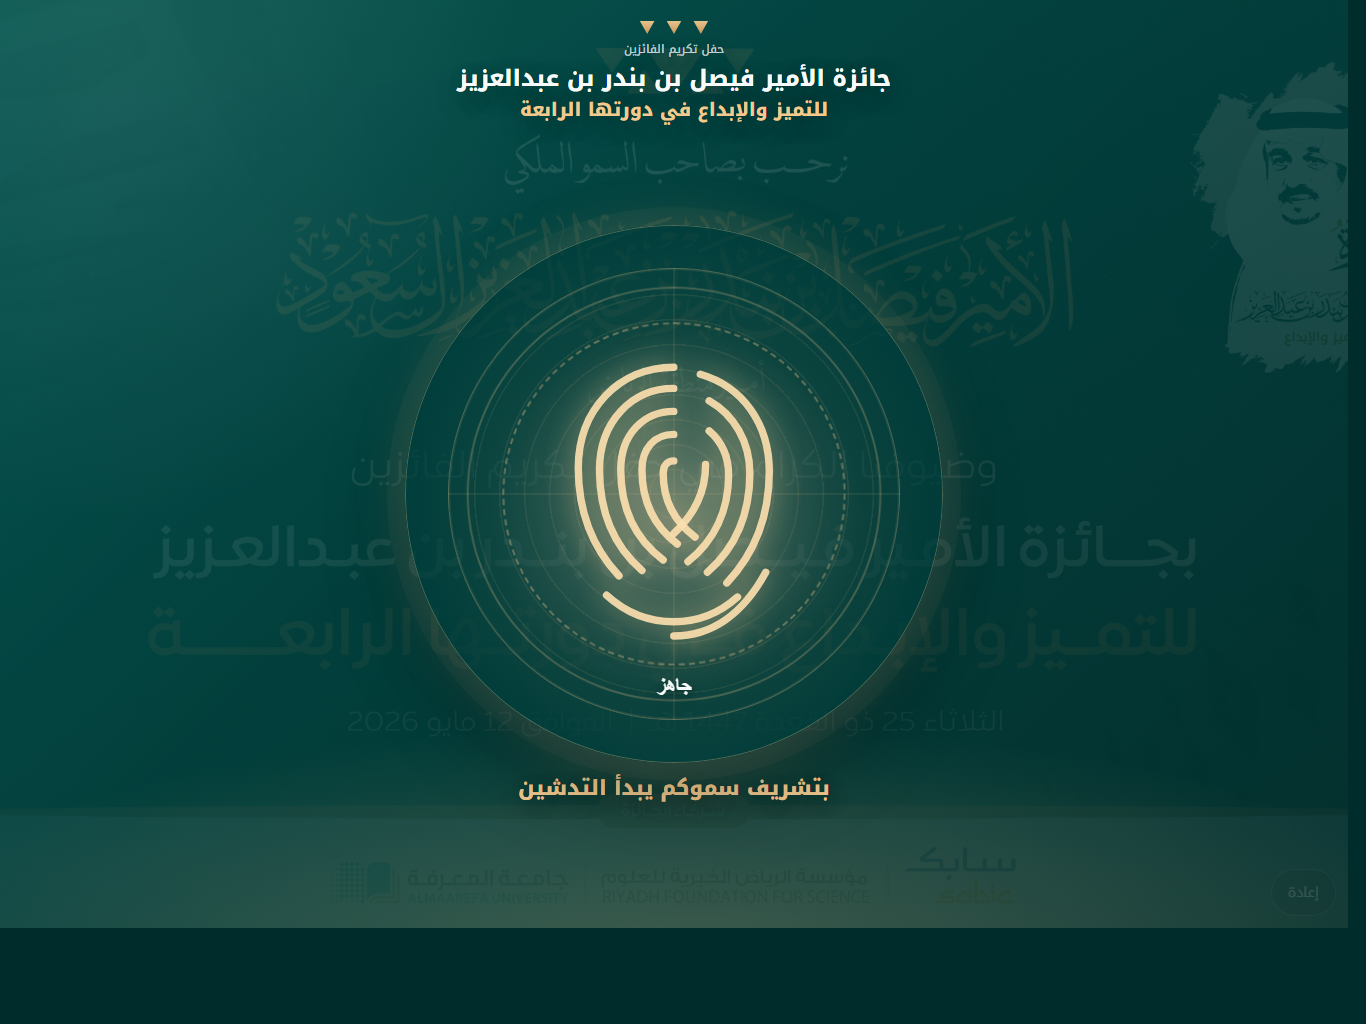
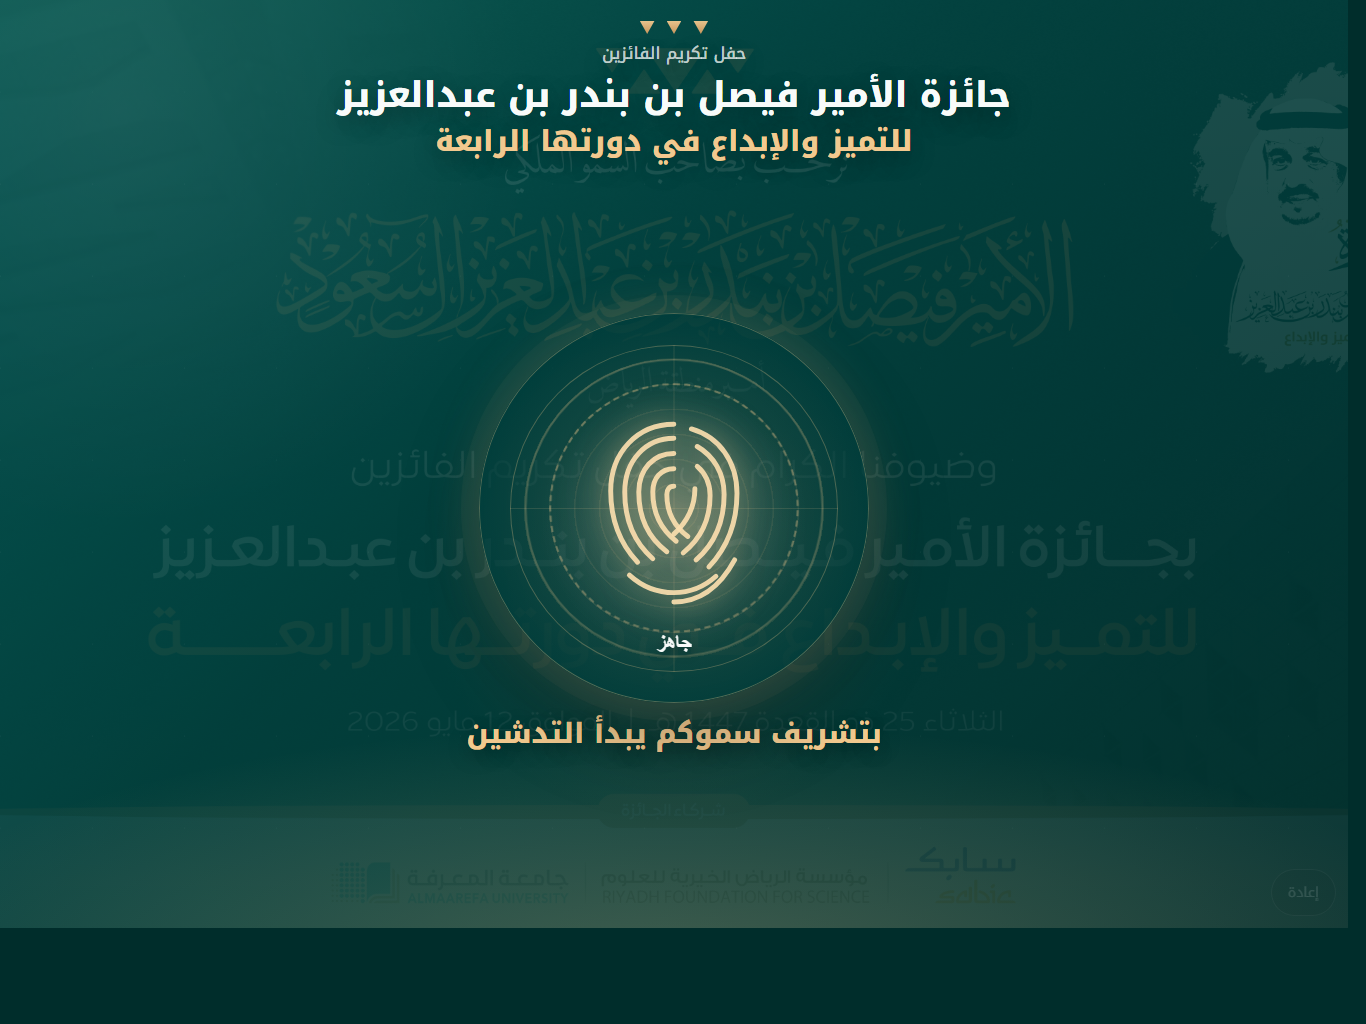
Increase text and reduce fingerprint size

diff --git a/styles.css b/styles.css
@@ -158,20 +158,20 @@ body {
 
 .brand p {
   color: var(--muted);
-  font-size: clamp(11px, 1.25dvh, 16px);
+  font-size: clamp(15px, 1.8dvh, 22px);
   font-weight: 500;
 }
 
 .brand h1 {
   color: var(--white);
-  font-size: clamp(18px, 2.45dvh, 34px);
+  font-size: clamp(25px, 3.8dvh, 52px);
   font-weight: 800;
   line-height: 1.28;
 }
 
 .brand h2 {
   color: var(--gold-light);
-  font-size: clamp(15px, 2dvh, 28px);
+  font-size: clamp(21px, 3.1dvh, 42px);
   font-weight: 800;
   line-height: 1.32;
 }
@@ -189,7 +189,7 @@ body {
 .status-line {
   min-height: 1.24em;
   color: var(--gold-light);
-  font-size: clamp(17px, 2.25dvh, 29px);
+  font-size: clamp(21px, 3dvh, 38px);
   font-weight: 800;
   line-height: 1.42;
   text-align: center;
@@ -198,7 +198,7 @@ body {
 
 .palm-pad {
   position: relative;
-  width: min(58dvh, 64vw, 560px);
+  width: min(42dvh, 48vw, 420px);
   aspect-ratio: 1 / 1;
   border: 0;
   border-radius: 50%;
@@ -270,7 +270,7 @@ body {
 .fingerprint-lines {
   position: absolute;
   z-index: 3;
-  width: 46%;
+  width: 42%;
   height: auto;
   transform: translateY(-1%) scaleX(-1);
   fill: none;
@@ -504,28 +504,28 @@ body {
   }
 
   .brand p {
-    font-size: clamp(10px, 1.1dvh, 14px);
+    font-size: clamp(14px, 1.65dvh, 20px);
   }
 
   .brand h1 {
-    max-width: 10.5em;
-    font-size: clamp(15px, 1.9dvh, 24px);
-    line-height: 1.3;
+    max-width: 9.8em;
+    font-size: clamp(24px, 3dvh, 37px);
+    line-height: 1.34;
   }
 
   .brand h2 {
-    max-width: 12em;
-    font-size: clamp(13px, 1.55dvh, 20px);
-    line-height: 1.28;
+    max-width: 11.5em;
+    font-size: clamp(20px, 2.45dvh, 31px);
+    line-height: 1.3;
   }
 
   .status-line {
-    font-size: clamp(16px, 1.95dvh, 24px);
+    font-size: clamp(20px, 2.45dvh, 30px);
     line-height: 1.35;
   }
 
   .palm-pad {
-    width: min(44dvh, 78vw, 560px);
+    width: min(32dvh, 62vw, 420px);
   }
 }
 
@@ -535,23 +535,23 @@ body {
   }
 
   .brand h1 {
-    font-size: clamp(17px, 2.35dvh, 27px);
+    font-size: clamp(24px, 3.55dvh, 40px);
   }
 
   .brand h2 {
-    font-size: clamp(14px, 1.95dvh, 23px);
+    font-size: clamp(20px, 3dvh, 34px);
   }
 
   .brand p {
-    font-size: clamp(11px, 1.45dvh, 17px);
+    font-size: clamp(15px, 2dvh, 22px);
   }
 
   .status-line {
-    font-size: clamp(15px, 2dvh, 23px);
+    font-size: clamp(21px, 3.2dvh, 34px);
   }
 
   .palm-pad {
-    width: min(48dvh, 42vw, 430px);
+    width: min(36dvh, 32vw, 330px);
   }
 }
 
